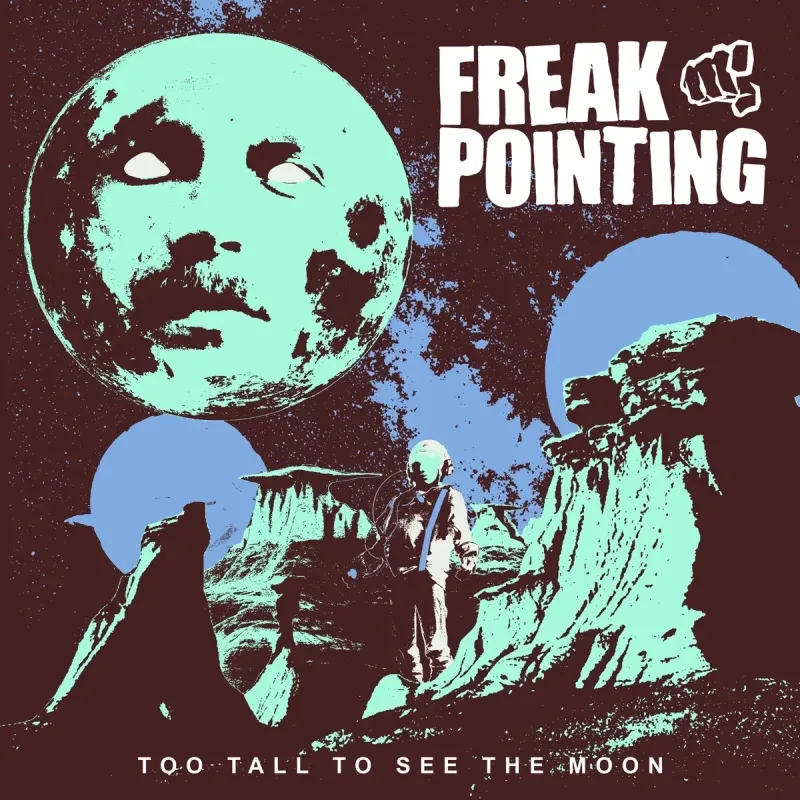
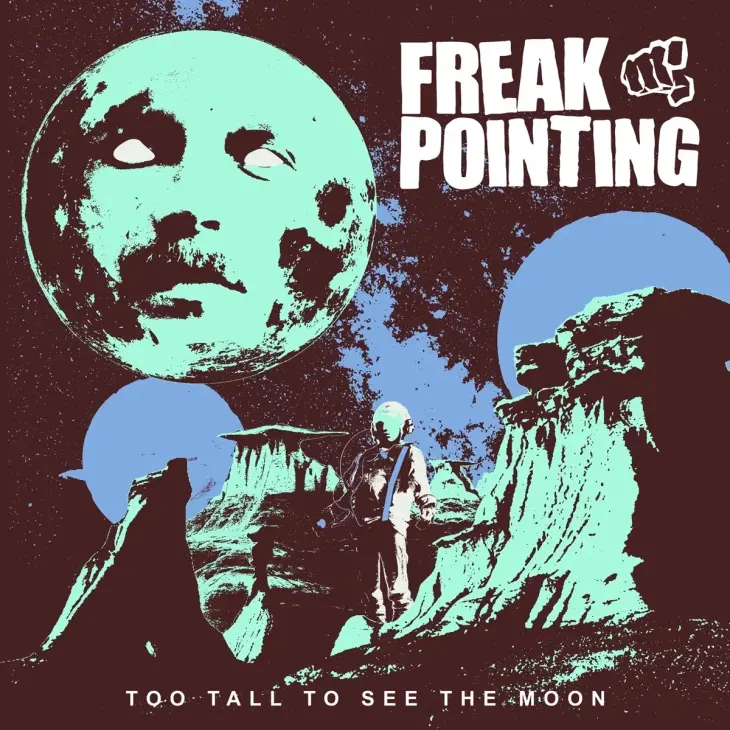
Resize featured EP artwork to 730w to match display dimensions

diff --git a/index.html b/index.html
@@ -140,7 +140,7 @@
       <div class="release-featured">
         <div class="release-featured-art">
           <img src="assets/Too_Tall_To_See_The_Moon_EP_Artwork-640.webp"
-               srcset="assets/Too_Tall_To_See_The_Moon_EP_Artwork-640.webp 640w, assets/Too_Tall_To_See_The_Moon_EP_Artwork-800.webp 800w, assets/Too_Tall_To_See_The_Moon_EP_Artwork.webp 1200w"
+               srcset="assets/Too_Tall_To_See_The_Moon_EP_Artwork-640.webp 640w, assets/Too_Tall_To_See_The_Moon_EP_Artwork-800.webp 730w, assets/Too_Tall_To_See_The_Moon_EP_Artwork.webp 1200w"
                sizes="(max-width: 768px) 90vw, 640px"
                alt="Too Tall To See The Moon EP artwork"
                width="640" height="640">
